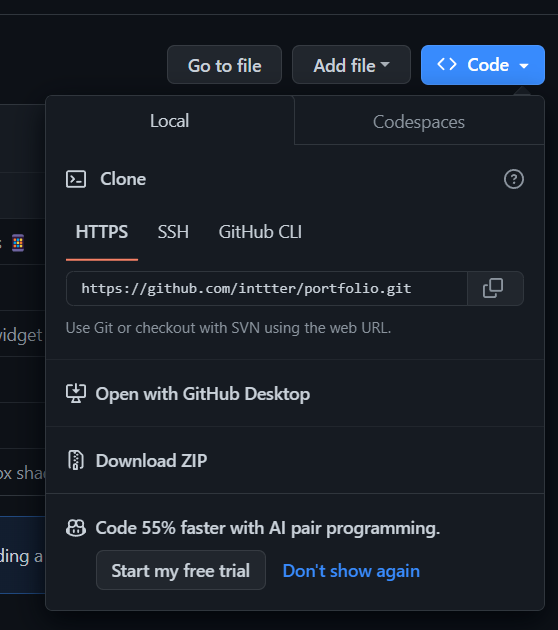
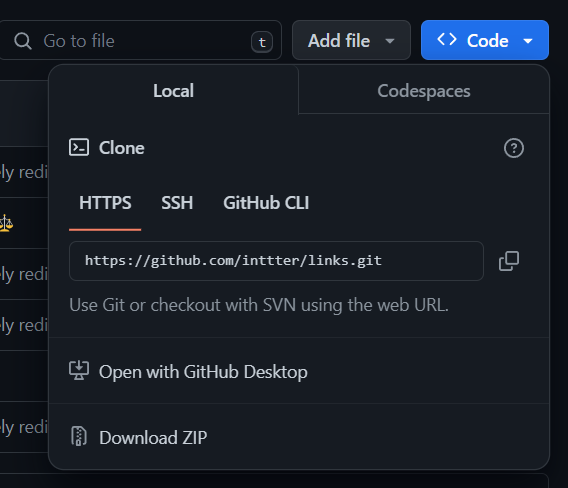
♻ Redid README with updated info and better formatting.

diff --git a/readme.md b/readme.md
@@ -1,53 +1,46 @@
-<div align="center">
+i<div align="center">
 
-# portfolio/social links ☕
-
-[![License](https://img.shields.io/badge/License-MIT-blue.svg?style=flat-square)](https://github.com/inttter/portfolio/blob/main/LICENSE) 
-[![Last Commit](https://img.shields.io/github/last-commit/inttter/portfolio?style=flat-square)](https://github.com/inttter/portfolio/commits/main)
-[![Website Status](https://img.shields.io/website?url=https%3A%2F%2Finttter.github.io%2Fportfolio%2F)](https://inttter.github.io/portfolio/)
-[![CodeFactor](https://www.codefactor.io/repository/github/inttter/portfolio/badge)](https://www.codefactor.io/repository/github/inttter/portfolio)
-![Open Issues](https://img.shields.io/github/issues/inttter/portfolio?style=flat-square)
-![Watchers](https://img.shields.io/github/watchers/inttter/portfolio?style=flat-square)
-
-<a href="https://www.buymeacoffee.com/intter" target="_blank"><img src="https://cdn.buymeacoffee.com/buttons/v2/default-blue.png" alt="Buy Me A Coffee" style="height: 40px !important;width: 150px !important;" ></a>
-
-### a simple portfolio website that also serves as the links page for my socials!
-
-# <u>preview</u>
-
-![preview](preview/preview-image.png)
+# Links 🔗
 
 
-# <u>project page preview</u>
-
-![projects page preview](preview/project-page-preview.png)
-
-# want to use this as a template? 📕
-
-clone this repository by using:
-
-┃ https: ┃ 
-
-`git clone https://github.com/inttter/portfolio`
-
-┃ github cli ┃ 
-
-`gh repo clone inttter/portfolio`
-
-# acknowledgements 🏆
-
-[boxicons]([BoxIcons.com) for the various icons
-
-# license ⚖
-
-my portfolio/website links website is licensed under the MIT License.
-
-see [license](LICENSE) for more information!
-
-# feel free to donate to me 🎧
-
-<a href="https://www.buymeacoffee.com/intter" target="_blank"><img src="https://cdn.buymeacoffee.com/buttons/v2/default-blue.png" alt="Buy Me A Coffee" style="height: 40px !important;width: 150px !important;" ></a>
+![Preivew](/assets/preview/preview.png)
 
 <br>
 
-###### 🥞 made with HTML, CSS, and JS 🥞
+[![Website](https://img.shields.io/website-up-down-green-red/http/inttter.github.io/links.svg)](https://inttter.github.io/links)
+[![GitHub last commit](https://img.shields.io/github/last-commit/inttter/links.svg)](https://github.com/inttter/links)
+[![CodeFactor](https://www.codefactor.io/repository/github/inttter/portfolio/badge)](https://www.codefactor.io/repository/github/inttter/portfolio)
+
+[![BuyMeACoffee](https://img.shields.io/badge/Buy%20Me%20a%20Coffee-ffdd00?logo=buy-me-a-coffee&logoColor=black)](https://buymeacoffee.com/intter)
+[![Ko-fi](https://img.shields.io/badge/Ko--fi-FF5E5B?logo=ko-fi&logoColor=white)](https://ko-fi.com/intter)
+[![Github-Sponsors](https://img.shields.io/badge/Sponsor-30363D?logo=GitHub-Sponsors&logoColor=#EA4AAA)]((https://github.com/sponsors/inttter))
+
+A minimal website to display my links and projects.
+
+# Want to use this for your own? ✏
+
+Clone the repository and edit anything you wish:
+
+`git clone https://github.com/inttter/links`
+
+<img src="assets/preview/how-to-clone.png" alt="howtoclone" width="350px" height="300px" />
+
+Make sure to replace everything with references to **yourself**.
+
+# Acknowledgements 🏆
+
+Many tools were used to create this: 
+
+[kittinan/spotify-github-profile](https://github.com/kittinan/spotify-github-profile) for the Spotify Now Playing status image.
+
+[tarptaeya/repo-card](https://github.com/tarptaeya/repo-card) for the cards showing my Featured Projects.
+
+#### [inttter/md-badges](https://github.com/inttter/md-badges), **my own project**, for the badge SVG's.
+
+[OneShot](https://store.steampowered.com/app/420530/OneShot/) for "On Little Cat Feet" (made by Nightmargin), featured in the game!
+
+# License ⚖
+
+© MIT License • [View Here](LICENSE)
+
+###### made with 🥞 - get it? probably not.
